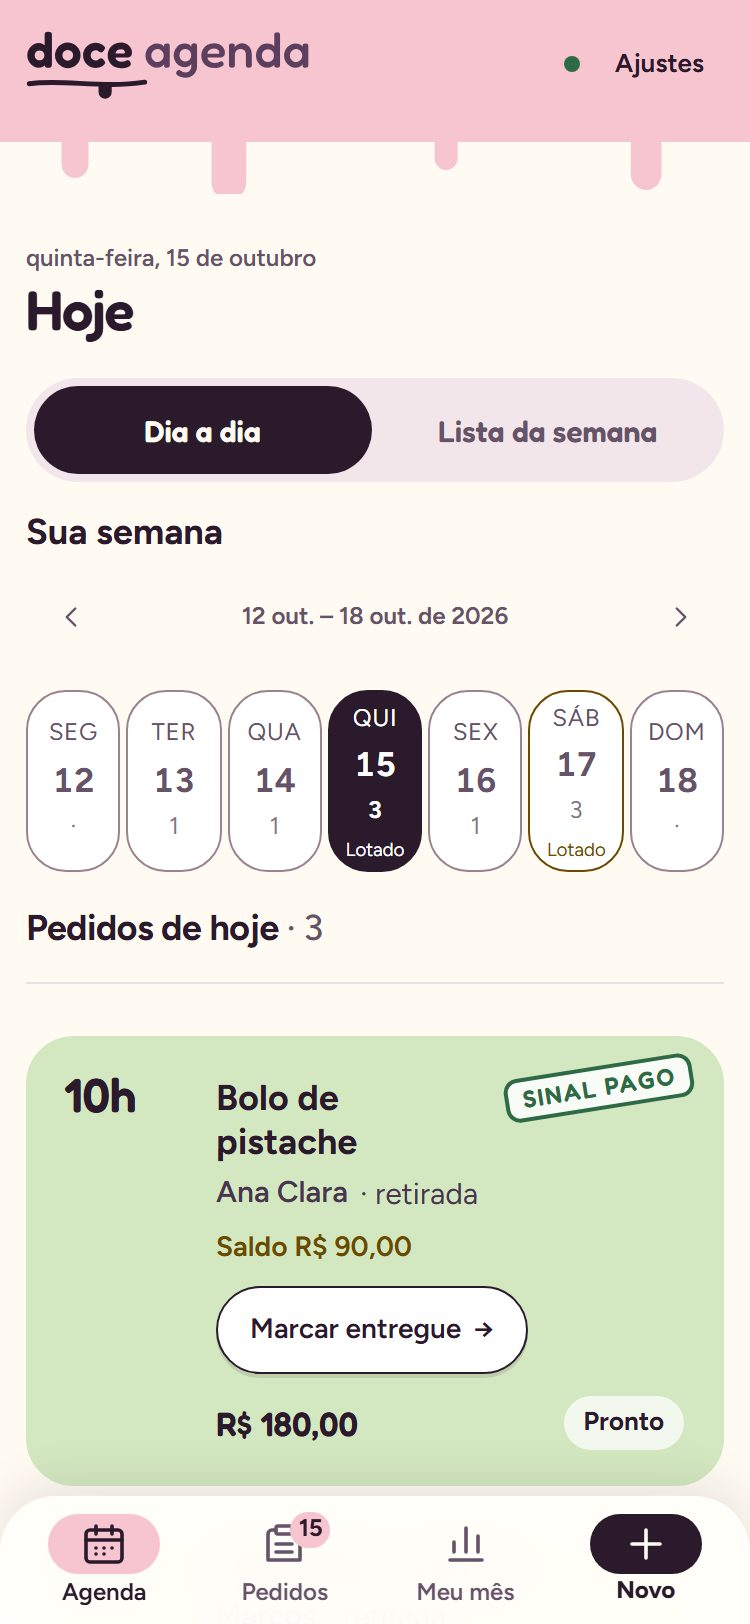
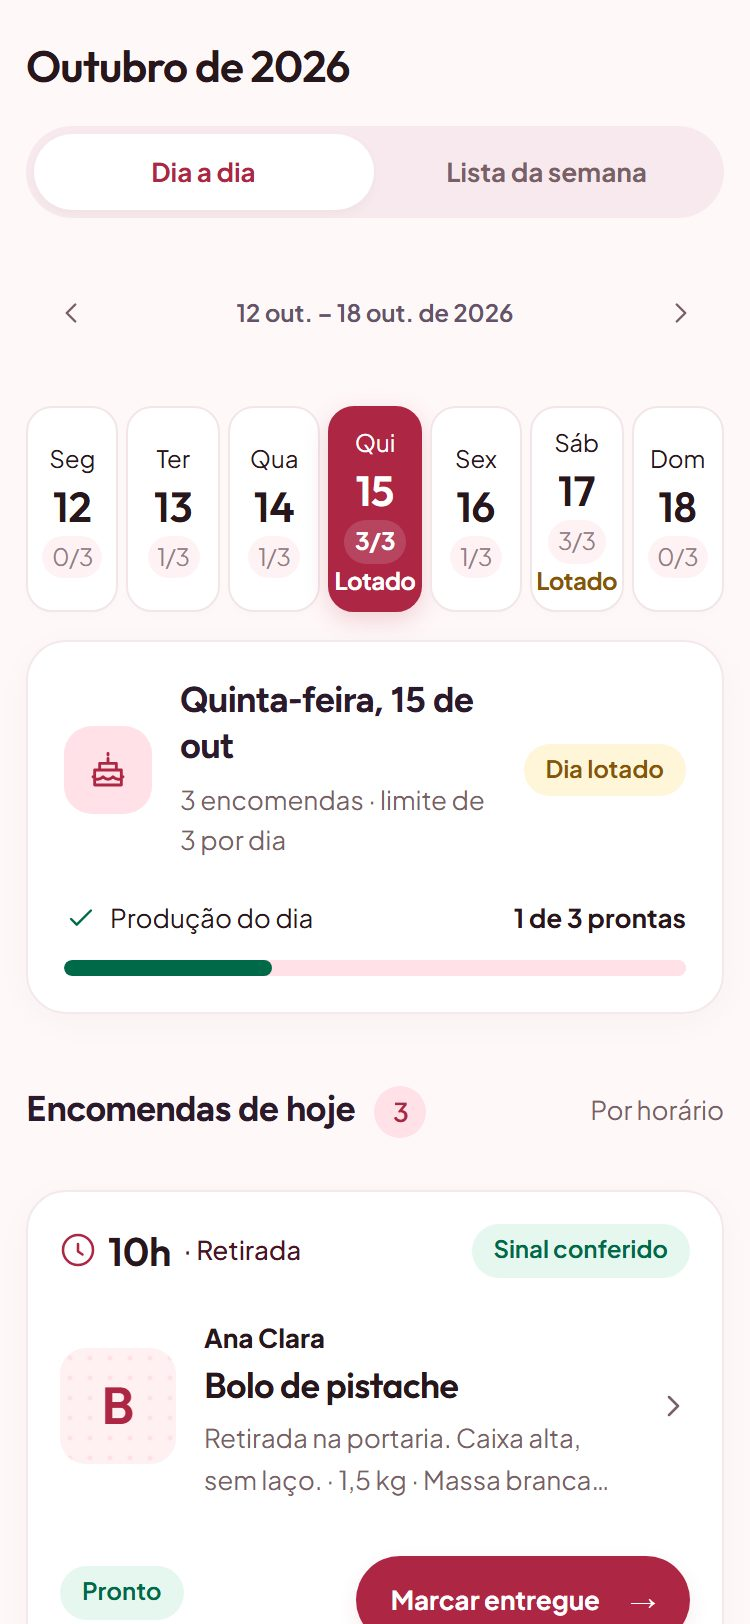
feat(visual): Clientes, Ajustes, cadastro e landing na nova identidade
- Clientes e Ajustes: cabeçalho, cartões, pílulas, busca, botões e campos na nova linguagem;
  cartão do link renomeado para Sua vitrine.
- App inteiro passa a usar Outfit e Plus Jakarta Sans (formulários incluídos) e os botões da
  Web Awesome em framboesa.
- Cadastro/login: topo sem gotas, fontes e cores novas; mesmos campos e fluxo.
- Landing: tokens redefinidos só nela, sem a faixa de gotas; carimbo vira o selo Sinal conferido;
  telas do app nos celulares refeitas com scripts/capture-landing-phones.mjs.

diff --git a/public/ui/vnext.css b/public/ui/vnext.css
@@ -12,6 +12,9 @@
   --vn-font: "Plus Jakarta Sans", Arial, sans-serif; --vn-title: "Outfit", "Plus Jakarta Sans", sans-serif;
   background: var(--vn-canvas);
 }
+/* Todas as telas do app já usam a nova identidade: as letras antigas (Fredoka, Figtree) saem também dos formulários. */
+body.vnext { --font-title: var(--vn-title); --font-body: var(--vn-font); --ameixa: var(--vn-wine); --link: var(--vn-berry);
+  --wa-color-brand-fill-loud: var(--vn-berry); --wa-color-brand-border-loud: var(--vn-berry); --wa-color-brand-on-loud: #fff; }
 .vnext :focus-visible { outline: 3px solid var(--vn-green); outline-offset: 3px; }
 
 /* ---- Primitivos ---- */
@@ -297,3 +300,35 @@ body.vnext { background: var(--vn-canvas); }
 .vn-month-note p { color: #e4bdc9; font-size: 14px; margin: 0 0 10px; }
 @media (max-width: 1000px) { .vn-month-grid { grid-template-columns: minmax(0, 1fr); } .vnext #view-month .vn-month-stats { grid-template-columns: repeat(2, minmax(0, 1fr)); } }
 @media (max-width: 380px) { .vnext #view-month .vn-stat { padding: 16px; } .vnext #view-month .vn-stat .stat-value { font-size: 22px; } }
+
+/* ---- Etapa 5: Clientes e Ajustes (mesma estrutura; componentes na nova linguagem) ---- */
+.vnext :is(#view-clients, #view-settings) { font-family: var(--vn-font); color: var(--vn-ink); }
+.vnext :is(#view-clients, #view-settings) :is(h1, h2, h3, legend) { font-family: var(--vn-title); letter-spacing: -.02em; color: var(--vn-ink); }
+.vnext :is(#view-clients, #view-settings) .page-heading { margin: 6px 0 24px; }
+.vnext :is(#view-clients, #view-settings) .page-heading h1 { font-size: clamp(30px, 4vw, 38px); font-weight: 600; }
+.vnext :is(#view-clients, #view-settings) .page-heading p { color: var(--vn-muted); font-size: 14px; }
+.vnext :is(#view-clients, #view-settings) :is(.button-primary, .button.button-primary) { background: var(--vn-berry); border-color: var(--vn-berry); color: #fff; border-radius: 999px; font-family: var(--vn-font); box-shadow: 0 4px 10px #ad264418; }
+.vnext :is(#view-clients, #view-settings) :is(.button-primary, .button.button-primary):hover { background: var(--vn-berry-dark); }
+.vnext :is(#view-clients, #view-settings) :is(.button-quiet, .button-small) { background: var(--vn-soft); border: 1px solid #f3dce3; color: var(--vn-wine); border-radius: 999px; font-family: var(--vn-font); }
+.vnext :is(#view-clients, #view-settings) .text-link { color: var(--vn-berry); }
+.vnext :is(#view-clients, #view-settings) .search-wrap { border: 0; border-bottom: 1px solid #dfcbd2; border-radius: 0; background: transparent; box-shadow: none; }
+.vnext :is(#view-clients, #view-settings) .search-input { background: transparent; border: 0; font-family: var(--vn-font); }
+.vnext :is(#view-clients, #view-settings) .stage-chip { min-height: 40px; border: 1px solid var(--vn-line); border-radius: 999px; background: #fff; color: var(--vn-muted); font: 700 13px var(--vn-font); }
+.vnext :is(#view-clients, #view-settings) .stage-chip.is-current, .vnext :is(#view-clients, #view-settings) .stage-chip[aria-pressed="true"] { background: var(--vn-berry); border-color: var(--vn-berry); color: #fff; }
+.vnext :is(#view-clients, #view-settings) .stage-count { background: var(--vn-soft); color: var(--vn-berry); }
+.vnext :is(#view-clients, #view-settings) :is(.stage-chip.is-current, .stage-chip[aria-pressed="true"]) .stage-count { background: #ffffff2b; color: #fff; }
+.vnext :is(#view-clients, #view-settings) :is(.client-row, .client-reminders, .settings-card, .surface, .backup-card, .empty-state) { border: 1px solid var(--vn-line-soft); border-radius: var(--vn-r); background: #fff; box-shadow: var(--vn-shadow); }
+.vnext :is(#view-clients, #view-settings) .empty-state { border-style: dashed; border-color: #d9bcc5; background: #fff9; box-shadow: none; }
+.vnext #view-clients .client-row:hover { box-shadow: var(--vn-shadow-hover); }
+.vnext #view-clients .client-reminders { background: var(--vn-soft); border-color: #f4dce3; box-shadow: none; }
+.vnext #view-clients :is(.client-tag, .client-status) { border-radius: 30px; background: var(--vn-rose); color: #8d2841; font-family: var(--vn-font); }
+.vnext #view-settings .settings-card[open] { box-shadow: var(--vn-shadow-hover); }
+.vnext #view-settings .settings-card-title { font: 600 19px var(--vn-title); color: var(--vn-ink); }
+.vnext #view-settings .settings-card-summary { color: var(--vn-muted); font-size: 13px; }
+.vnext #view-settings .step-n { background: var(--vn-berry); color: #fff; }
+.vnext #view-settings .link-hero.is-live { background: var(--vn-mint); }
+.vnext #view-settings .live-badge { background: #fff; color: var(--vn-green); }
+.vnext #view-settings .product-item { border-color: var(--vn-line-soft); border-radius: 16px; }
+.vnext #view-settings .style-card:has(input:checked), .vnext #view-settings .swatch:has(input:checked) i { border-color: var(--vn-berry); box-shadow: 0 0 0 1px var(--vn-berry); }
+.vnext :is(#view-clients, #view-settings) .field :is(input, select, textarea), .vnext #view-settings .money-field, .vnext #view-settings .slug-field { border-color: #dcc8cf; border-radius: 12px; font-family: var(--vn-font); }
+.vnext :is(#view-clients, #view-settings) .field > span { font-family: var(--vn-font); font-weight: 700; }

diff --git a/public/landing/index.html b/public/landing/index.html
@@ -3,7 +3,7 @@
 <head>
   <meta charset="utf-8">
   <meta name="viewport" content="width=device-width, initial-scale=1">
-  <meta name="theme-color" content="#f7c5d0">
+  <meta name="theme-color" content="#fff8f8">
   <meta name="description" content="App de encomendas para confeiteiras: saiba o que fazer, entregar e cobrar em cada dia da semana, e receba pedidos das clientes por um link. Experimente sem cadastro.">
   <title>Doce Agenda — encomendas da sua confeitaria em ordem</title>
   <link rel="canonical" href="https://lucast.app/">
@@ -55,10 +55,10 @@
 
         <div class="hero-device">
           <figure class="phone">
-            <div class="phone-screen"><img src="/landing/assets/app-agenda.jpg" width="750" height="1624" alt="Tela Agenda do Doce Agenda: semana de 12 a 18 de outubro com quinta e sábado lotados, e o primeiro pedido de hoje, bolo de pistache às 10h, com o carimbo Sinal pago."></div>
+            <div class="phone-screen"><img src="/landing/assets/app-agenda.jpg" width="750" height="1624" alt="Tela Agenda do Doce Agenda: semana de 12 a 18 de outubro com quinta e sábado lotados, produção do dia com 1 de 3 prontas e o primeiro pedido de hoje, bolo de pistache às 10h, com o selo Sinal conferido."></div>
           </figure>
           <div class="float-card float-lotado" aria-hidden="true"><span class="fc-day"><b>Sáb</b>17</span><span><b>Dia lotado</b>A agenda avisa antes</span></div>
-          <div class="float-card float-sinal" aria-hidden="true"><span class="stamp-mini">Sinal pago</span><span><b>R$ 90,00</b>conferido</span></div>
+          <div class="float-card float-sinal" aria-hidden="true"><span class="stamp-mini">Sinal conferido</span><span><b>R$ 90,00</b>conferido</span></div>
           <div class="float-card float-link" aria-hidden="true"><span class="fc-dot"></span><span><b>Nova solicitação</b>chegou pelo seu link</span></div>
         </div>
       </section>
@@ -163,7 +163,7 @@
           <ul class="checks"><li>Botões de Hoje e Amanhã para ganhar tempo</li><li>Detalhes do combinado guardados no pedido</li><li>Valor e sinal no mesmo lugar</li></ul>
         </div>
         <div class="step-visual">
-          <figure class="phone phone-step"><div class="phone-screen"><img src="/landing/assets/passo-1-novo.jpg" width="750" height="1624" loading="lazy" alt="Tela Nova encomenda preenchida: Juliana, bolo de morango de 2 kg, detalhes do recheio e do topo, amanhã às 15h."></div></figure>
+          <figure class="phone phone-step"><div class="phone-screen"><img src="/landing/assets/passo-1-novo.jpg" width="750" height="1624" loading="lazy" alt="Tela Nova encomenda preenchida: Juliana, bolo de morango de 2 kg, detalhes do recheio e do topo, 16 de outubro às 15h."></div></figure>
           <div class="float-card fc-a" aria-hidden="true"><span class="fc-check"></span><span><b>Encomenda salva</b>amanhã, 15h</span></div>
         </div>
       </article>
@@ -195,9 +195,9 @@
           <p>A cliente disse que fez o Pix? Fica como informado até você conferir no banco. Conferiu, o pedido ganha o carimbo. No Meu mês, você vê quanto vendeu, quanto recebeu e quanto falta receber.</p>
           <ul class="checks"><li>Pedido sem sinal fica em amarelo</li><li>Pix informado separado do conferido</li><li>Resumo do mês pronto, sem planilha</li></ul>
         </div>
-        <div class="step-visual mock-visual" role="img" aria-label="Demonstração: o pedido de docinhos da Juliana está amarelo porque falta o sinal. O Pix de R$ 60,00 foi informado pela cliente; ao marcar conferido, o pedido ganha o carimbo Sinal pago e o Meu mês passa de R$ 1.010 para R$ 1.070 recebidos.">
+        <div class="step-visual mock-visual" role="img" aria-label="Demonstração: o pedido de docinhos da Juliana está amarelo porque falta o sinal. O Pix de R$ 60,00 foi informado pela cliente; ao marcar conferido, o pedido ganha o selo Sinal conferido e o Meu mês passa de R$ 1.010 para R$ 1.070 recebidos.">
           <div class="mock-card pay-mock">
-            <span class="pm-top"><b class="om-time">18h</b><span class="om-what"><strong>Docinhos (50 un.)</strong>Juliana · R$ 120,00</span><em class="pm-flag">Falta o sinal</em><span class="stamp-mini pm-stamp">Sinal pago</span></span>
+            <span class="pm-top"><b class="om-time">18h</b><span class="om-what"><strong>Docinhos (50 un.)</strong>Juliana · R$ 120,00</span><em class="pm-flag">Falta o sinal</em><span class="stamp-mini pm-stamp">Sinal conferido</span></span>
             <span class="pm-pay"><span class="pm-amount">Pix de R$ 60,00</span><small class="pm-state"><span class="pm-wait">Informado pela cliente, ainda não conferido</span><span class="pm-ok">Conferido</span></small><span class="om-btn pm-btn">Marcar conferido</span></span>
           </div>
           <div class="mock-card month-mock">

diff --git a/public/account/account.css b/public/account/account.css
@@ -92,3 +92,31 @@ body{background:var(--papel);font-family:var(--font-body);font-size:16px}
 .mode-tab[aria-current="page"]{color:var(--ink)}
 .mode-tab[aria-current="page"]::after{background:var(--glace);height:4px;border-radius:4px}
 .notice-pending{background:var(--baunilha);border-color:var(--baunilha);color:var(--ink)}
+
+/* Nova identidade (laboratório visual, 16/10/2026): mesmos campos, textos e fluxo de conta. */
+@font-face{font-family:"Outfit";src:url("/fonts/vnext/outfit.woff2") format("woff2");font-weight:100 900;font-display:swap}
+@font-face{font-family:"Plus Jakarta Sans";src:url("/fonts/vnext/plus-jakarta-sans.woff2") format("woff2");font-weight:200 800;font-display:swap}
+body{background:#fff8f8;color:#27171c;font-family:"Plus Jakarta Sans",Arial,sans-serif}
+.site-header{margin-bottom:28px;border-bottom:1px solid #efdee2}
+.site-header::before,.site-header::after{display:none}
+@media (min-width:761px){.site-header{margin-bottom:40px}}
+.header-link{color:#4a1525}
+.intro h1,.card-content h2{font-family:"Outfit","Plus Jakarta Sans",sans-serif;font-weight:600;letter-spacing:-.03em;color:#27171c}
+.intro h1 em{color:#ad2644}
+.eyebrow{color:#ad2644;letter-spacing:.12em}
+.intro-copy,.form-intro,.field-hint,.terms-note{color:#795f67}
+.detail-icon{background:#ffe1e7;color:#ad2644}
+.account-card{border:1px solid #f4e8ec;border-radius:24px;box-shadow:0 4px 18px #4a152508;background:#fff}
+.mode-tab{font-family:"Plus Jakarta Sans",sans-serif;color:#795f67}
+.mode-tab[aria-current="page"]{color:#ad2644}
+.mode-tab[aria-current="page"]::after{background:#ad2644}
+.field label,.field>span{font-family:"Plus Jakarta Sans",sans-serif;font-weight:700}
+.field input,.password-control{border-color:#dcc8cf;border-radius:12px;font-family:"Plus Jakarta Sans",sans-serif}
+.field input:focus-visible,.password-control:focus-within{outline:3px solid #006947;outline-offset:2px}
+.button-primary{background:#ad2644;border-color:#ad2644;color:#fff;border-radius:999px;box-shadow:0 4px 10px #ad264418}
+.button-primary:hover{background:#921f3a}
+.button-secondary{background:#fff0f2;border-color:#f3dce3;color:#4a1525;border-radius:999px}
+.text-link{color:#ad2644}
+.notice{border-radius:12px}
+.notice-error{background:#fdecee;color:#9b1c31}
+.notice-pending{background:#fff5d9;color:#865508}

diff --git a/public/landing/landing.css b/public/landing/landing.css
@@ -298,3 +298,17 @@ h2{margin:0;font-family:var(--font-title);font-size:clamp(30px,4vw,46px);font-we
   .motion .ld-switch{display:flex}
   .motion .ld-stage[data-side="client"] .ld-baker,.motion .ld-stage[data-side="baker"] .ld-client{display:none}
 }
+
+/* Nova identidade (laboratório visual, 16/10/2026): mesmos textos, seções e animações.
+   Os tokens do app são redefinidos só nesta página; letras Outfit e Plus Jakarta Sans servidas pelo nosso domínio. */
+@font-face{font-family:"Outfit";src:url("/fonts/vnext/outfit.woff2") format("woff2");font-weight:100 900;font-display:swap}
+@font-face{font-family:"Plus Jakarta Sans";src:url("/fonts/vnext/plus-jakarta-sans.woff2") format("woff2");font-weight:200 800;font-display:swap}
+:root{--font-title:"Outfit","Plus Jakarta Sans",sans-serif;--font-body:"Plus Jakarta Sans",Arial,sans-serif;--papel:#fff8f8;--glace:#ffe1e7;--ameixa:#4a1525;--ink:#27171c;--muted:#795f67;--link:#ad2644;--line:#efdee2;
+  --wa-color-brand-fill-loud:#ad2644;--wa-color-brand-border-loud:#ad2644;--wa-color-brand-on-loud:#fff}
+body{background:#fff8f8}
+h1,h2{letter-spacing:-.03em}
+.top-band{background:#fff8f8;border-bottom:1px solid #efdee2}
+.top-band::before,.top-band::after{display:none}
+.drip{display:none}
+/* O carimbo vira o selo verde do app: "Sinal conferido", sem rotação. */
+.stamp-mini{border:0;border-radius:30px;background:#e5f7ef;color:#006947;font-family:"Plus Jakarta Sans",sans-serif;font-size:12px;letter-spacing:0;text-transform:none;transform:none;padding:5px 10px}

diff --git a/public/app.js b/public/app.js
@@ -593,7 +593,7 @@ function renderSettings() {
   const summary = settingsSummaries();
   content.innerHTML = `<div class="page-heading"><div><h1 id="settings-title">Ajustes</h1><p>Toque num item para ver ou mudar.</p></div></div>${tipMarkup("settings")}
     <div class="settings-list">
-      ${settingsCard("link", "Link de encomenda", summary.link, orderPageMarkup())}
+      ${settingsCard("link", "Sua vitrine", summary.link, orderPageMarkup())}
       ${settingsCard("days", "Dias e limites", summary.days, availabilitySettingsMarkup(state.settingsDate))}
       ${pixEnabled() ? settingsCard("pix", "Pix", pixSummary(), pixSettingsMarkup()) : ""}
       ${settingsCard("cake", "Detalhes do bolo", summary.cake, `<p class="settings-intro">Os campos que aparecem quando o pedido é um bolo, aqui e no seu link. Campos obrigatórios só são exigidos ao confirmar.</p>${orderTemplateSettingsMarkup()}`)}
